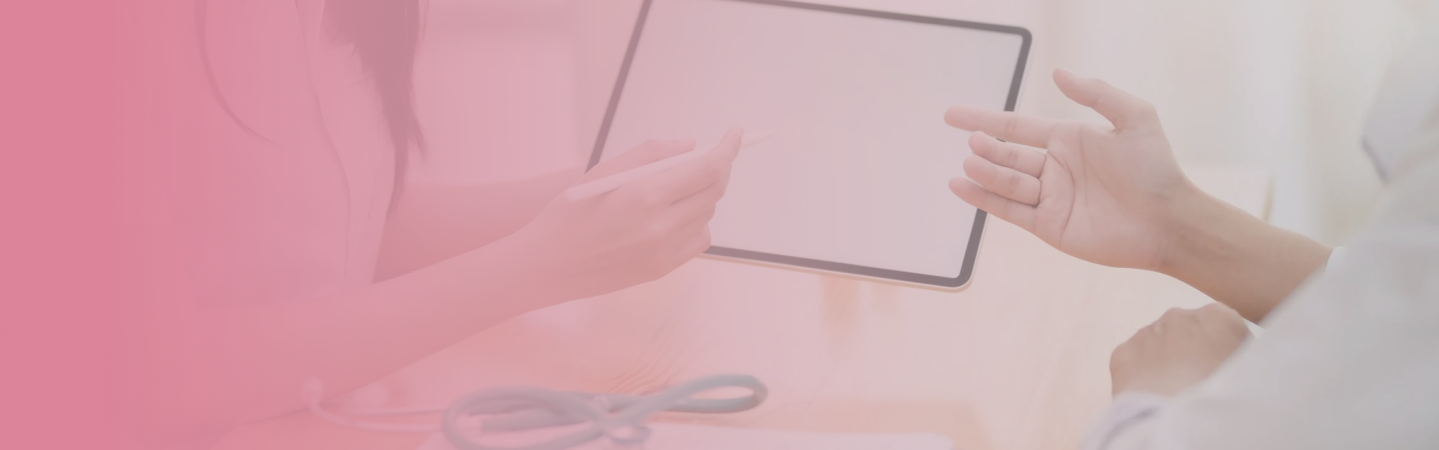
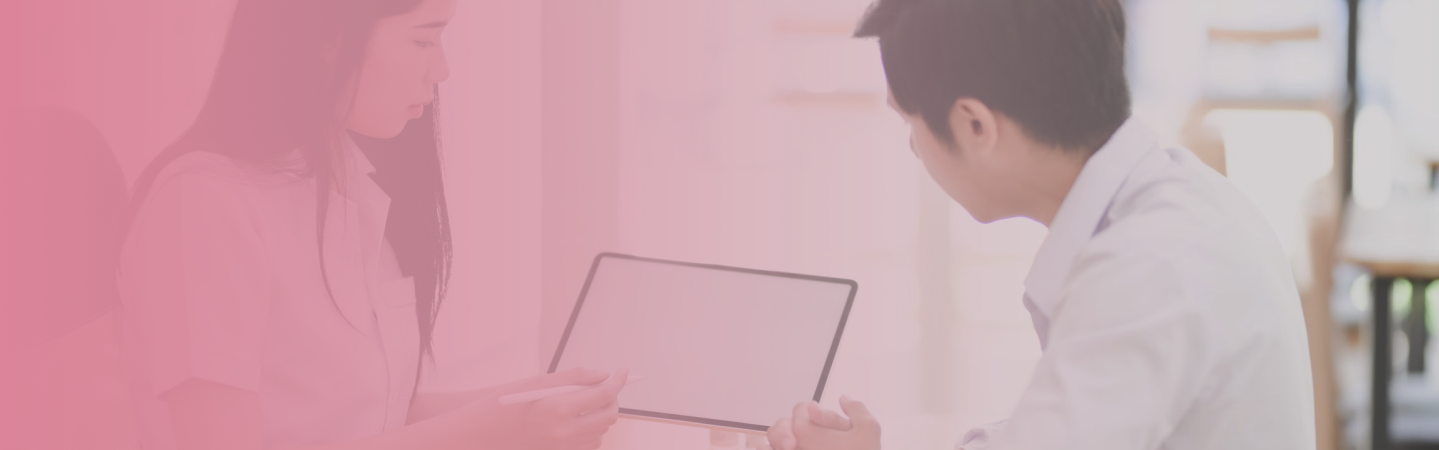
Changed imagery on header strips and other spots to remove elderly and hands

diff --git a/src/pages/services.js b/src/pages/services.js
@@ -2,7 +2,7 @@ import React, {useEffect} from "react";
 import Layout from "../components/layout";
 import SEO from "../components/seo";
 import HeaderStrip from '../components/header-strip/header-strip';
-import servicesImage from '../images/headers/services-header.png';
+import servicesImage from '../images/headers/services.png';
 import ServicesStrip from '../components/services/services';
 import LocationsStrip from '../components/locations/locations';
 import TestimonialsStrip from '../components/testimonials/testimonials';

diff --git a/src/components/testimonials/mosaic-card.js b/src/components/testimonials/mosaic-card.js
@@ -7,7 +7,7 @@ const MosaicCard = (props) => {
   return (
     <div className='MosaicCard'>
         <img src={heartIcon} alt="Heart" />
-        <p className='quote-text'>{`"${props.quote}"`}</p>
+        <p>{`"${props.quote}"`}</p>
         <p>- {props.author}</p>
     </div>
   )

diff --git a/src/components/testimonials/mosaic-card.css b/src/components/testimonials/mosaic-card.css
@@ -13,7 +13,7 @@
     box-shadow: 0px 9px 10px rgba(0, 0, 0, 0.15);
     transform: translateY(-4px);
 }
-.MosaicCard .quote-text {
+.MosaicCard p {
     color: white;
 }
 .MosaicCard img {
